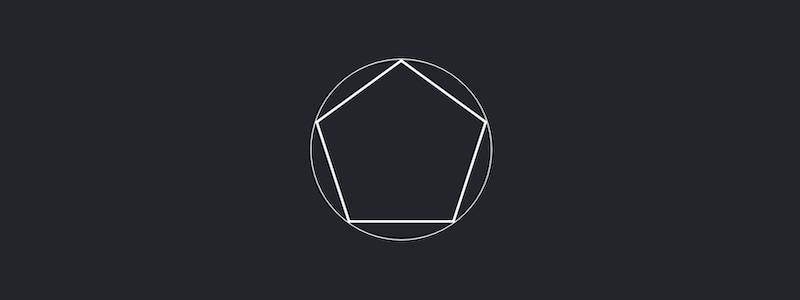
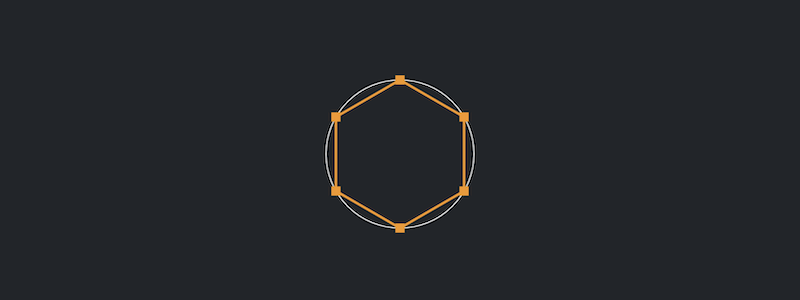
Polygon how page

Changed region(s): [[0.375, 0.18, 0.625, 0.81]]

diff --git a/how_pages/how_polygon.html b/how_pages/how_polygon.html
@@ -1,0 +1,136 @@
+<!DOCTYPE html>
+<html>
+  <head>
+    <link rel="stylesheet" href="../css/gist_darkmode.css" />
+    <link
+      href="https://cdn.jsdelivr.net/npm/bootstrap@5.2.0/dist/css/bootstrap.min.css"
+      rel="stylesheet"
+      integrity="sha384-gH2yIJqKdNHPEq0n4Mqa/HGKIhSkIHeL5AyhkYV8i59U5AR6csBvApHHNl/vI1Bx"
+      crossorigin="anonymous"
+    />
+    <link rel="stylesheet" href="../css/global.css" />
+
+    <!-- Fonts -->
+    <link rel="preconnect" href="https://fonts.googleapis.com" />
+    <link rel="preconnect" href="https://fonts.gstatic.com" crossorigin />
+    <link
+      href="https://fonts.googleapis.com/css2?family=Anonymous+Pro:wght@400;700&family=Merriweather:ital,wght@0,300;0,400;0,700;0,900;1,300;1,400;1,700;1,900&family=Montserrat:ital,wght@0,100;0,300;0,400;0,700;0,900;1,100;1,300;1,400;1,700;1,900&family=Noto+Sans+Mono:wght@100;200;400;600;800&family=Nunito:ital,wght@0,200;0,300;0,400;0,500;0,600;0,700;0,800;0,900;1,200;1,300;1,400;1,500;1,600;1,700;1,800;1,900&family=Open+Sans:wght@300;500;600;700;800&family=Roboto+Mono:wght@500&family=Roboto:ital,wght@0,100;0,300;0,400;0,500;0,700;0,900;1,100;1,300;1,400;1,500;1,700;1,900&display=swap"
+      rel="stylesheet"
+    />
+
+    <title>How I made Polygon</title>
+  </head>
+  <body>
+    <nav class="navbar navbar-dark pt-1 ps-3">
+      <a class="navbar-brand home-button fs-1" href="/">Home</a>
+    </nav>
+    <h1 class="text-center">How I made Polygon</h1>
+    <div class="px-5 w-100 mt-5">
+      <img class="w-100" src="../img/polygon_example_highdef.png" />
+    </div>
+    <section id="mainContent" class="text-center">
+      <h2>Drawing the polygon</h2>
+      <p class="fs-5 my-5 text-start">
+        Starting off with polygon, I had two ideas on how to approach drawing
+        the polygon. Initially, I was going to draw a line from each point to
+        the next, using the angle rotation to calculate a point from the next.
+        However, after its implementation, it became clear there was a better
+        solution. The final solution drew points out from the center, segmenting
+        <code>2 * Math.PI</code> radians into the number of sides. With a quick
+        adjustment of <code>0.5 * Math.PI</code>, the starting point was kept at
+        the top.
+      </p>
+      <div class="w-50 mx-auto">
+        <img src="../img/polygon_example1.png" class="rounded w-100" />
+        <label class="mt-2"
+          >Illustration of how points are drawn from center</label
+        >
+      </div>
+      <p class="fs-5 my-5 text-start">
+        To draw each point, the code would take the angle (plus the offset) and
+        calculate the x and y offset of the line using <code>Math.cos</code> and
+        <code>Math.sin</code>. The cosine and sine of the angle rotation provide
+        the ratio between the hypotenuse and the given side. Multiplying by the
+        hypotenuse (as sine and cosine represent <code>side:hypotenuse</code>)
+        gives the x and y coordinate of the point.
+      </p>
+
+      <div class="px-5">
+        <script src="https://gist.github.com/sadeshmukh/cd3bc62688d6af5b277e39366903ee72.js?file=drawPolygonPoints.js"></script>
+        <label
+          >loop inside drawInscribedPolygon() from public/js/polygon.js</label
+        >
+      </div>
+      <h2 class="mt-5">Calculating the areas</h2>
+      <p class="fs-5 my-5 text-start">
+        To calculate the areas, I created separate functions to calculate the
+        area of the circle and the polygon. Since the size of the polygon was
+        only known by the circumscribed radius of the circle (a misnomer in my
+        code, <code>inscribedRadius</code>), I would have to find the height of
+        the inner triangles inside the polygon.
+      </p>
+      <div class="w-50 mx-auto">
+        <img src="../img/polygon_example2.png" class="rounded w-100" />
+        <label class="mt-2"
+          >Illustration of how to get triangle height of polygon</label
+        >
+      </div>
+      <p class="fs-5 my-5 text-start">
+        To find it, I first found the angle opposite it, which was equal to half
+        of one of the interior angles. Using the Law of Sines, I found the outer
+        side length, as the angle on the inside was equal to
+        <code>Math.PI - interiorAngle</code>. From here, it was easy going -
+        using the Pythagorean Theorem, I was able to find the triangle height,
+        and with it, calculate the area of the polygon (<code
+          >apothem * outerSideLength * n / 2</code
+        >)
+      </p>
+      <div class="px-5">
+        <script src="https://gist.github.com/sadeshmukh/cd3bc62688d6af5b277e39366903ee72.js?file=calculatePolygonArea.js"></script>
+        <label>function calculatePolygonArea() from public/js/polygon.js</label>
+      </div>
+      <h2 class="mt-5">Smooth coloring</h2>
+      <p class="fs-5 my-5 text-start">
+        Initially, I created a color shift between two colors. After seeing how
+        it worked, I thought it would be cool to implement a multi-color shift.
+        To implement a multi-color shift that would work with
+        <code>n</code> colors requires a slightly altered strategy - first,
+        finding the two values to transition between, and finding the fraction
+        of the way through between <em>those two colors</em>. To do this, I
+        found the fraction of the total way through, then subtracted previous
+        "sections" from it, as is shown below.
+      </p>
+      <div class="px-5">
+        <script src="https://gist.github.com/sadeshmukh/cd3bc62688d6af5b277e39366903ee72.js?file=calculateSmoothColor.js"></script>
+        <label
+          >part of function drawInscribedPolygon() from
+          public/js/polygon.js</label
+        >
+      </div>
+      <p class="fs-5 my-5 text-start">
+        With a few more touches, like the polygon names and circle overlay, it
+        was done. You can check it out
+        <a href="../polygon" class="text-light">here</a>, or check out the
+        github repository
+        <a
+          href="https://github.com/sadeshmukh/geometry-showcase"
+          class="text-light"
+          >here</a
+        >. This was made by Sahil.
+      </p>
+    </section>
+    <footer
+      class="bg-dark fixed-bottom text-center p-3 border-top border-light"
+    >
+      <a
+        href="https://github.com/sadeshmukh/geometry-showcase"
+        target="_blank"
+        class="text-light text-decoration-none"
+      >
+        <img src="../img/github_120px_light.png" id="footerGithubLogo" />
+        <span class="text-decoration-none"> sadeshmukh</span>
+      </a>
+      <span> - Made by Sahil</span>
+    </footer>
+  </body>
+</html>

diff --git a/public/js/polygon.js b/public/js/polygon.js
@@ -78,7 +78,7 @@ context.canvas.height = initialHeight;
 context.lineWidth = 5;
 context.strokeStyle = "#ffffff";
 
-const progressiveColors = [
+const smoothColors = [
   [220, 53, 69],
   [255, 193, 7],
   [25, 135, 84],
@@ -110,7 +110,7 @@ function calculatePolygonArea(radius, n) {
   const outerSideLength =
     (radius / Math.sin(angle / 2)) * Math.sin(Math.PI - angle);
   const apothem = Math.sqrt(radius ** 2 - (outerSideLength / 2) ** 2);
-  return (1 / 2) * apothem * outerSideLength * n;
+  return (apothem * outerSideLength * n) / 2;
 }
 
 // Not in use - draws by actually calculating each point, rather than drawPolygonInscribed() which draws points from center
@@ -150,26 +150,25 @@ function drawPolygonInscribed(n, radius) {
   // Take difference in rgb values, ex: 50, 100
   // Take fraction, multiply (fraction through) * difference and add to base value
   const fractionThrough = (n - minSides) / (maxSides - minSides);
-  let currentSection = Math.ceil(
-    fractionThrough * (progressiveColors.length - 1)
-  );
+  let currentSection = Math.ceil(fractionThrough * (smoothColors.length - 1));
   if (currentSection < 1) {
     currentSection = 1;
   }
-  let sections = progressiveColors.length - 1;
+  let sections = smoothColors.length - 1;
 
-  const progressiveColor1 = progressiveColors[currentSection - 1];
-  const progressiveColor2 = progressiveColors[currentSection];
+  const smoothColor1 = smoothColors[currentSection - 1];
+  const smoothColor2 = smoothColors[currentSection];
   let rangeFractionThrough =
-    (fractionThrough - currentSection / sections) * 4 + 1;
+    (fractionThrough - currentSection / sections) * (smoothColors.length - 1) +
+    1;
   // fraction - section/sections = rangefractionthrough
   const currentColor = [
-    (progressiveColor2[0] - progressiveColor1[0]) * rangeFractionThrough +
-      progressiveColor1[0],
-    (progressiveColor2[1] - progressiveColor1[1]) * rangeFractionThrough +
-      progressiveColor1[1],
-    (progressiveColor2[2] - progressiveColor1[2]) * rangeFractionThrough +
-      progressiveColor1[2],
+    (smoothColor2[0] - smoothColor1[0]) * rangeFractionThrough +
+      smoothColor1[0],
+    (smoothColor2[1] - smoothColor1[1]) * rangeFractionThrough +
+      smoothColor1[1],
+    (smoothColor2[2] - smoothColor1[2]) * rangeFractionThrough +
+      smoothColor1[2],
   ];
   context.strokeStyle = `rgb(${currentColor[0]}, ${currentColor[1]}, ${currentColor[2]})`;
   context.beginPath();

diff --git a/server.js b/server.js
@@ -1,7 +1,7 @@
 const express = require("express");
 const app = express();
 
-const howPages = ["path_length", "pythagorean"];
+const howPages = ["path_length", "pythagorean", "polygon"];
 
 app.use(express.static("public"));
 
